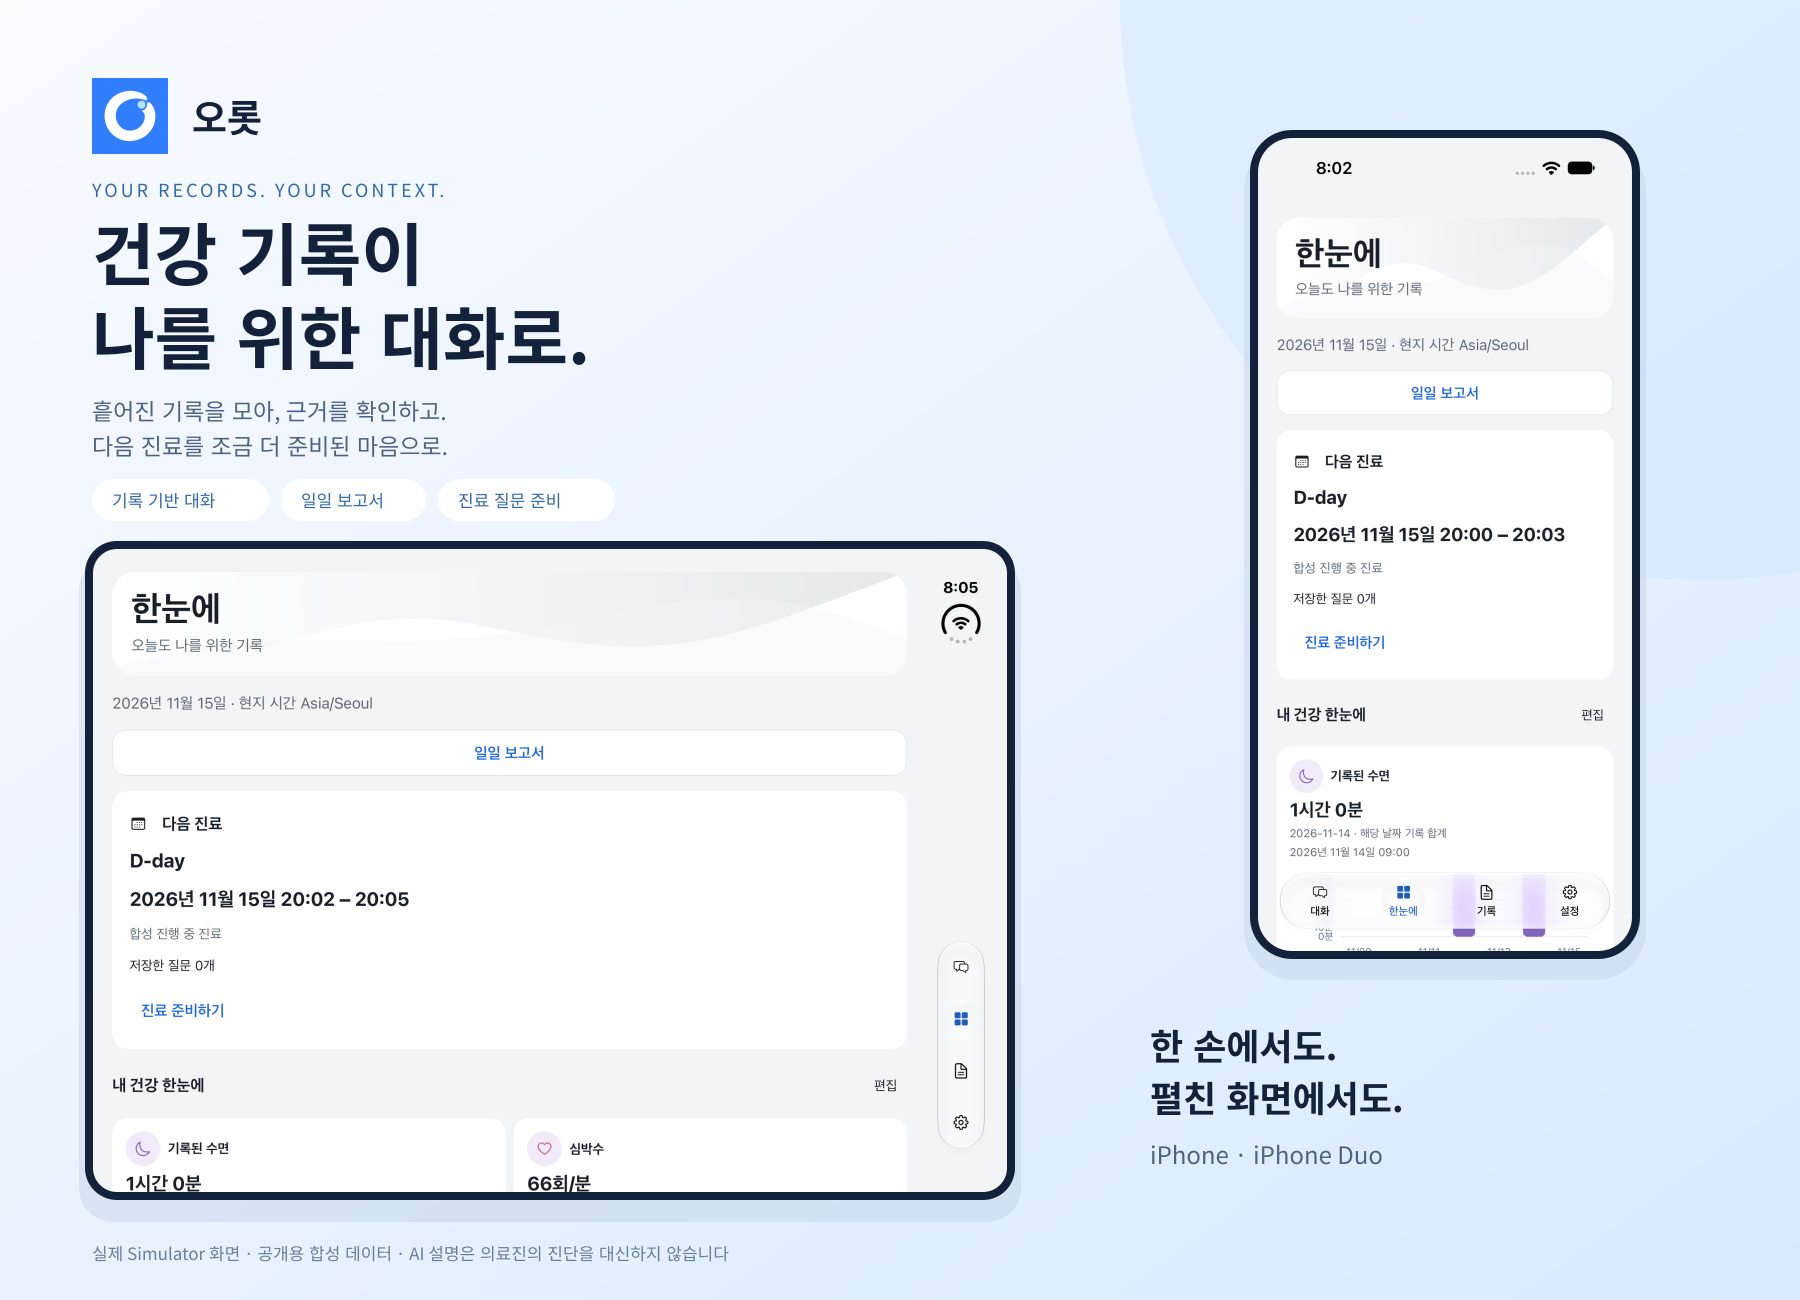
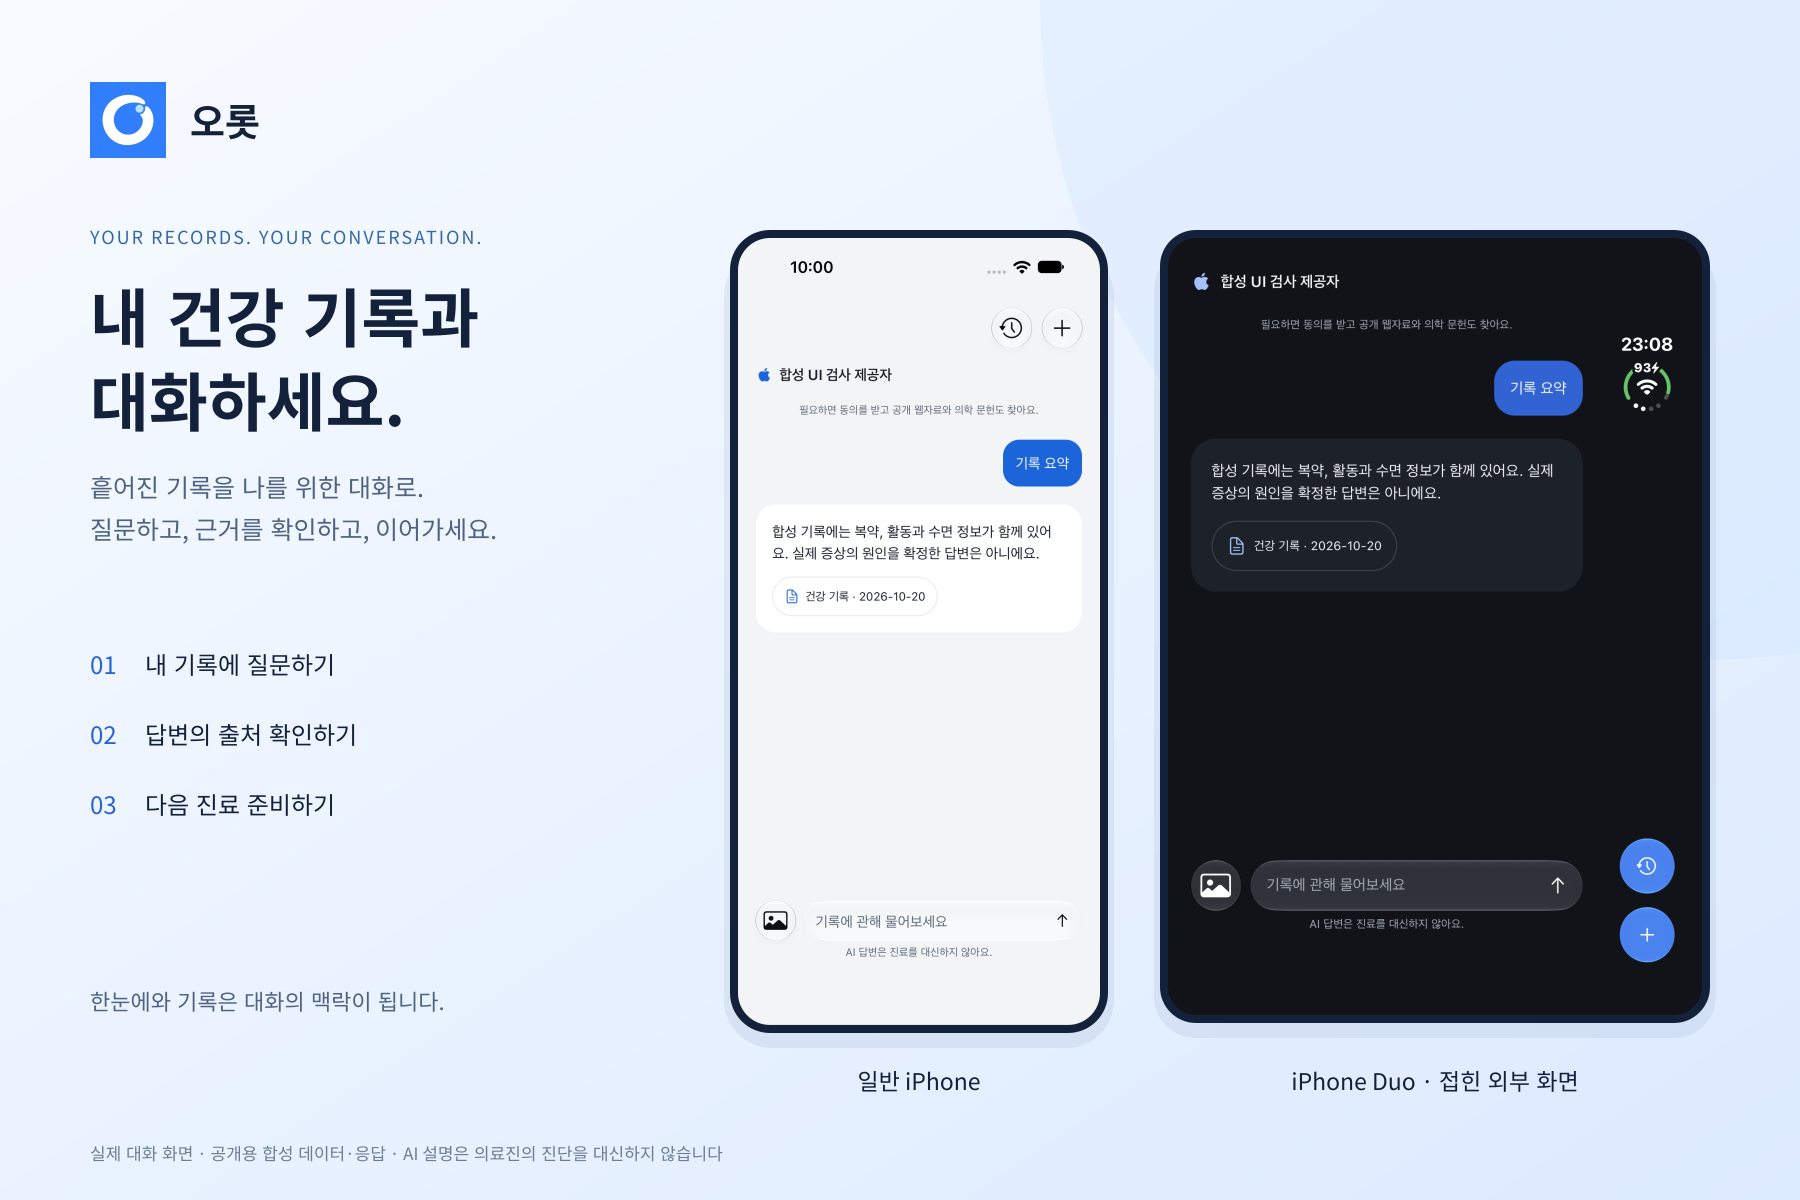
docs: showcase conversation as the README entry point

Changed region(s): [[0.0311, 0.0617, 0.9644, 0.925], [0.0622, 0.9558, 0.4044, 0.9867], [0.28, 0.555, 0.3111, 0.5858]]

diff --git a/README.md b/README.md
@@ -4,7 +4,7 @@
 
 ### 흩어진 건강 기록을, 나를 위한 대화로.
 
-기록을 모으고 · 근거를 확인하고 · 다음 진료를 준비합니다.
+내 기록에 질문하고 · 답변의 근거를 확인하고 · 대화를 이어갑니다.
 
 [![Code Quality](https://github.com/eunsoogi/orot/actions/workflows/code-quality.yml/badge.svg?branch=main)](https://github.com/eunsoogi/orot/actions/workflows/code-quality.yml)
 [![Unit Test](https://github.com/eunsoogi/orot/actions/workflows/unit-test.yml/badge.svg?branch=main)](https://github.com/eunsoogi/orot/actions/workflows/unit-test.yml)
@@ -12,13 +12,40 @@
 [![React Native](https://img.shields.io/badge/React_Native-0.87.1-3182f6)](apps/mobile/package.json)
 [![LangGraph](https://img.shields.io/badge/LangGraph-1.4.18-1C3C3C)](packages/agent-runtime/package.json)
 
-[기능](#기록에서-대화까지) · [화면](#한-손에서도-펼친-화면에서도) · [구조](#아이폰-안에서-시작하는-ai) · [개발 시작](#함께-만들기)
+[대화](#내-건강-기록과-대화하세요) · [기능](#기록에서-대화까지) · [화면](#한-손에서도-펼친-화면에서도) · [구조](#아이폰-안에서-시작하는-ai) · [개발 시작](#함께-만들기)
 
 </div>
 
-![일반 iPhone과 iPhone Duo에서 실행한 오롯의 현재 화면](docs/assets/orot-showcase.png)
+![일반 iPhone과 iPhone Duo에서 실행한 오롯의 대화 화면](docs/assets/orot-showcase.png)
 
 > 건강 기록을 이해하고 진료를 준비하는 앱입니다. AI의 설명은 진단이나 치료 결정을 대신하지 않습니다.
+
+## 내 건강 기록과 대화하세요
+
+1. **내 기록에 질문하세요.** 필요한 기록을 찾아 답변합니다.
+2. **답변의 근거를 확인하세요.** 확인한 자료와 원문 출처를 연결합니다.
+3. **대화를 이어가세요.** 추가 지시를 보내거나 다음 진료 질문을 정리합니다.
+
+## 한 손에서도, 펼친 화면에서도
+
+### 대화가 중심입니다
+
+| 일반 iPhone · Simulator · 세로 화면 | iPhone Duo · 실기기 · 접힌 외부 화면 |
+| --- | --- |
+| 내 기록에 질문하고 답변과 근거에 집중합니다. | 대화와 출처를 확인합니다. 아래 캡처는 접힌 상태입니다. |
+| ![일반 iPhone의 합성 기록 기반 대화 화면](docs/assets/showcase/iphone-conversation.png) | ![iPhone Duo 접힌 외부 화면의 합성 기록 기반 대화 화면](docs/assets/showcase/duo-conversation.png) |
+
+### 한눈에에서 맥락을 확인하세요
+
+Duo의 펼친 내부 화면은 아래 한눈에 갤러리에서 볼 수 있습니다.
+
+| 일반 iPhone | iPhone Duo |
+| --- | --- |
+| 진료 일정과 건강 기록을 한 화면씩 확인합니다. | 펼친 화면에서 건강 기록을 넓은 카드로 확인합니다. |
+| ![일반 iPhone의 합성 데이터 한눈에 화면](docs/assets/showcase/iphone-overview.png) | ![iPhone Duo의 합성 데이터 한눈에 화면](docs/assets/showcase/duo-overview.png) |
+
+
+이미지는 2026-11-15 소스의 시뮬레이터에서 촬영한 **공개용 합성 데이터** 화면입니다. 개인 건강정보를 사용하지 않습니다. [촬영 기준과 원본](docs/assets/screenshot-provenance.md)
 
 ## 기록에서 대화까지
 
@@ -33,15 +60,6 @@
 | **말로 대화하기**        | Apple 시스템 음성 또는 별도 동의한 OpenAI Realtime 음성 대화를 선택합니다.     |
 
 [기능별 상세 동작과 제한 보기](docs/features.md)
-
-## 한 손에서도, 펼친 화면에서도
-
-| 일반 iPhone                                                                      | iPhone Duo                                                                   |
-| -------------------------------------------------------------------------------- | ---------------------------------------------------------------------------- |
-| 진료 일정과 건강 기록을 한 화면씩 집중해서 봅니다.                               | 펼친 화면에서 건강 기록을 넓은 카드로 확인합니다.                            |
-| ![일반 iPhone의 실제 합성 데이터 화면](docs/assets/showcase/iphone-overview.png) | ![iPhone Duo의 실제 합성 데이터 화면](docs/assets/showcase/duo-overview.png) |
-
-이미지는 2026-11-15 소스의 시뮬레이터에서 촬영한 **공개용 합성 데이터** 화면입니다. 개인 건강정보를 사용하지 않습니다. [촬영 기준과 원본](docs/assets/screenshot-provenance.md)
 
 ## 대화 중에도, 다음에 돌아와도
 

diff --git a/docs/assets/screenshot-provenance.md b/docs/assets/screenshot-provenance.md
@@ -1,6 +1,19 @@
 # 소개 이미지 출처
 
-## 현재 README: 2026-11-15
+## 대화 중심 소개 화면: 2026-11-15
+
+- 앱 소스: `0593f968b60173d6912587c2bffbde5258a3b285`. 대화 제목 제거(#1037) 이후의 실제 화면입니다.
+- 구성: Release OrotTests, `OROT_TEST_SCENARIO conversation-visual`. 실제 production 화면 컴포넌트와 공개용 합성 기록·응답을 사용합니다. 원격 모델 호출과 개인 건강정보는 없습니다.
+- 질문: `기록 요약`. 화면의 출처 버튼은 합성 기록을 가리킵니다. 실제 모델의 의료적 해석 품질을 입증하는 예시가 아닙니다.
+- 일반 iPhone: iPhone 18 Pro / iOS 27.0 / 세로 1206 × 2622.
[1 lines of base64/hex data omitted]
+- iPhone 원본은 전용 시뮬레이터에서 촬영하고 삭제를 확인했습니다.
+- Duo 원본은 iOS 27.3 실기기의 **접힌 외부 화면**, 세로 1398 × 2034입니다. 펼친 내부 화면 캡처가 아닙니다.
[1 lines of base64/hex data omitted]
+- Duo 구성은 `deviceReadmeVisualProbe`: 실제 `ConversationScreen`과 메모리 전용 합성 세션을 사용하고 production 앱 루트는 포함하지 않습니다. JS/native 네트워크·음성·다운로드와 production DB 접근을 차단한 테스트 구성입니다.
+- 공개용 원본에는 고정 합성 기록·응답과 일반 시계·배터리 표시만 있습니다. 사용자 알림, 계정, 실제 건강 기록과 데스크톱은 포함하지 않습니다. 촬영 후 서명된 production 앱을 복원했습니다.
+
+## 보조 한눈에 화면: 2026-11-15
 
 - 앱 소스: `122c901dd68b0694ba3caf7b5d67f54e718dd169` (#1029), 당시 main `6e299ff` 기반. 최근 기록 PR #1032 화면은 포함하지 않습니다.
 - 구성: Release OrotTests, 테스트 전용 진입점에서 **실제 production 화면 컴포넌트** 실행. SDK 27.2 / arm64, build-for-testing 성공, blocking warning 0.
@@ -14,14 +27,14 @@
[2 lines of base64/hex data omitted]
 
-- 대화 화면은 이후 제목 변경 요청과 충돌하지 않도록 이번 소개 자산에서 제외했습니다.
+- 한눈에 원본은 위 촬영 시점 그대로 보존한 보조 소개 화면입니다. 대화 원본과 소스·촬영 시점이 다릅니다.
 
 ### 최종 소개 이미지
 
-- [orot-showcase.png](orot-showcase.png): 1800 × 1300. 코드 기반 벡터 레이아웃의 타이포·배경·프레임 안에 실제 PNG를 종횡비를 유지해 배치했습니다. 화면 내부를 생성형 AI로 다시 그리거나 내용을 합성하지 않았습니다.
-- 원본 앱 아이콘, 일반 iPhone과 Duo의 한눈에 화면을 사용합니다. 원본 전체는 위 링크로 확인할 수 있습니다.
+- [orot-showcase.png](orot-showcase.png): 1800 × 1200. 코드 기반 벡터 레이아웃의 타이포·배경·프레임 안에 실제 PNG를 종횡비를 유지해 배치했습니다. 화면 내부를 생성형 AI로 다시 그리거나 내용을 합성하지 않았습니다.
+- 원본 앱 아이콘, 일반 iPhone 대화와 Duo 접힌 외부 대화 화면을 사용합니다. 원본 전체는 위 링크로 확인할 수 있습니다.
 - 이것은 README의 최종 소개 자산이며 제품 UI 목업이 아닙니다.
-- 전용 시뮬레이터에서만 촬영하고 정리했습니다. 개인 계정·건강자료·실키·실기기는 사용하지 않았습니다.
+- 각 대화 화면의 촬영 환경과 안전 경계는 위에 명시했습니다. 보조 한눈에 갤러리는 이전 시뮬레이터 원본을 유지합니다.
 
 ## 이전 소개 이미지 이력 (현재 대문에서 미사용)
 
